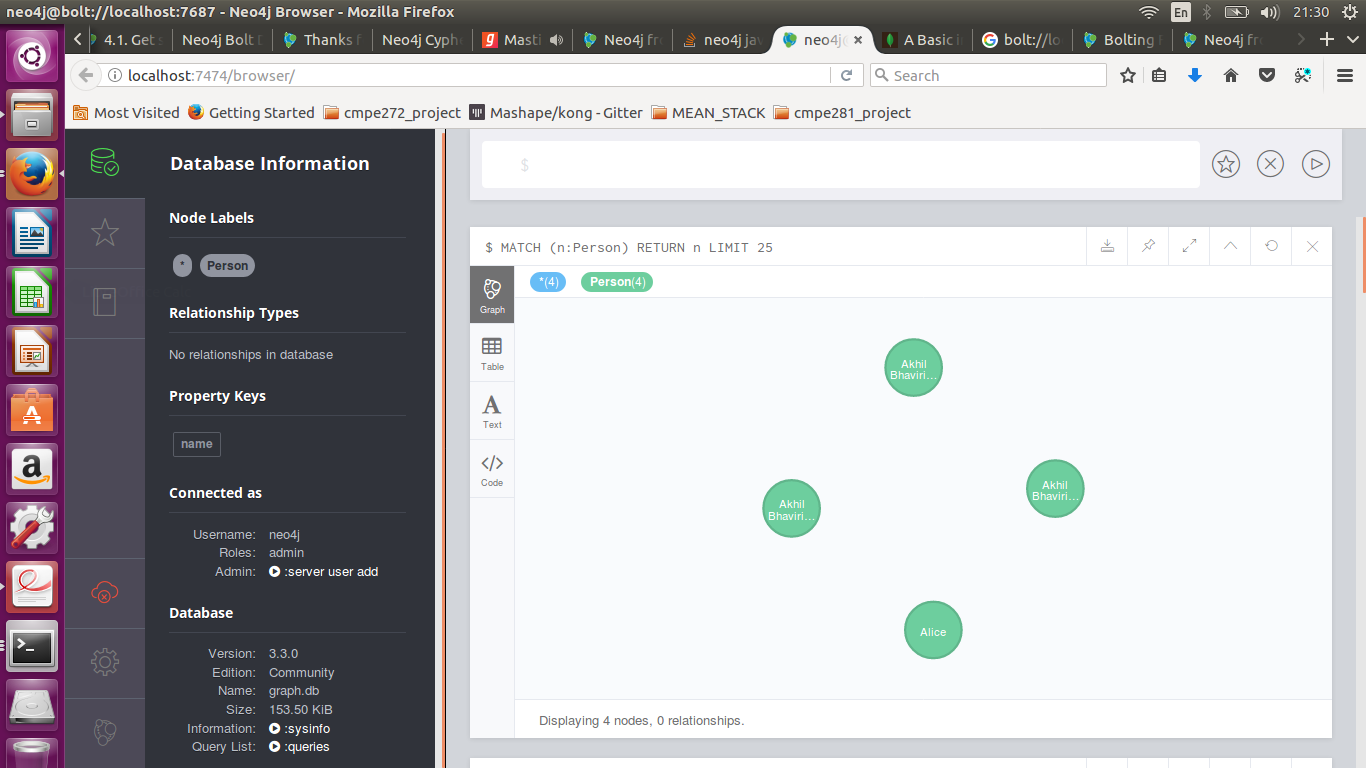
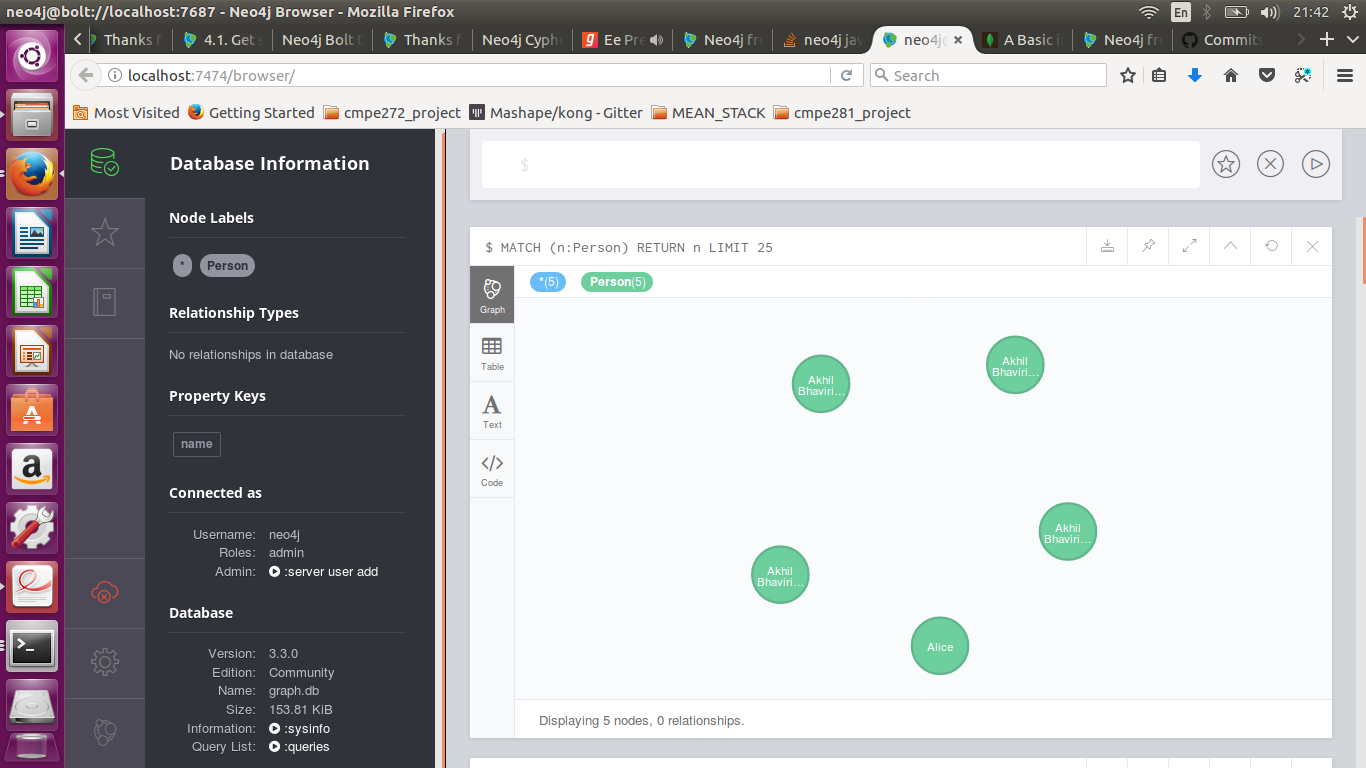
Successfully Implemented Neo4J application in NodeJS to create a Node in the Graph Database

diff --git a/Code/Akhil_Bhavirisetty/Week5/Neo4j_Node_Creation.js b/Code/Akhil_Bhavirisetty/Week5/Neo4j_Node_Creation.js
@@ -3,7 +3,7 @@ const driver = neo4j.driver("bolt://localhost:7687", neo4j.auth.basic("neo4j", "
 
 const session = driver.session();
 
-const personName = 'Akhil Bhavirisetty';
+const personName = 'Akhil Bhavirisettyy';
 const resultPromise = session.run(
   'CREATE (a:Person {name: $name}) RETURN a',
   {name: personName}
